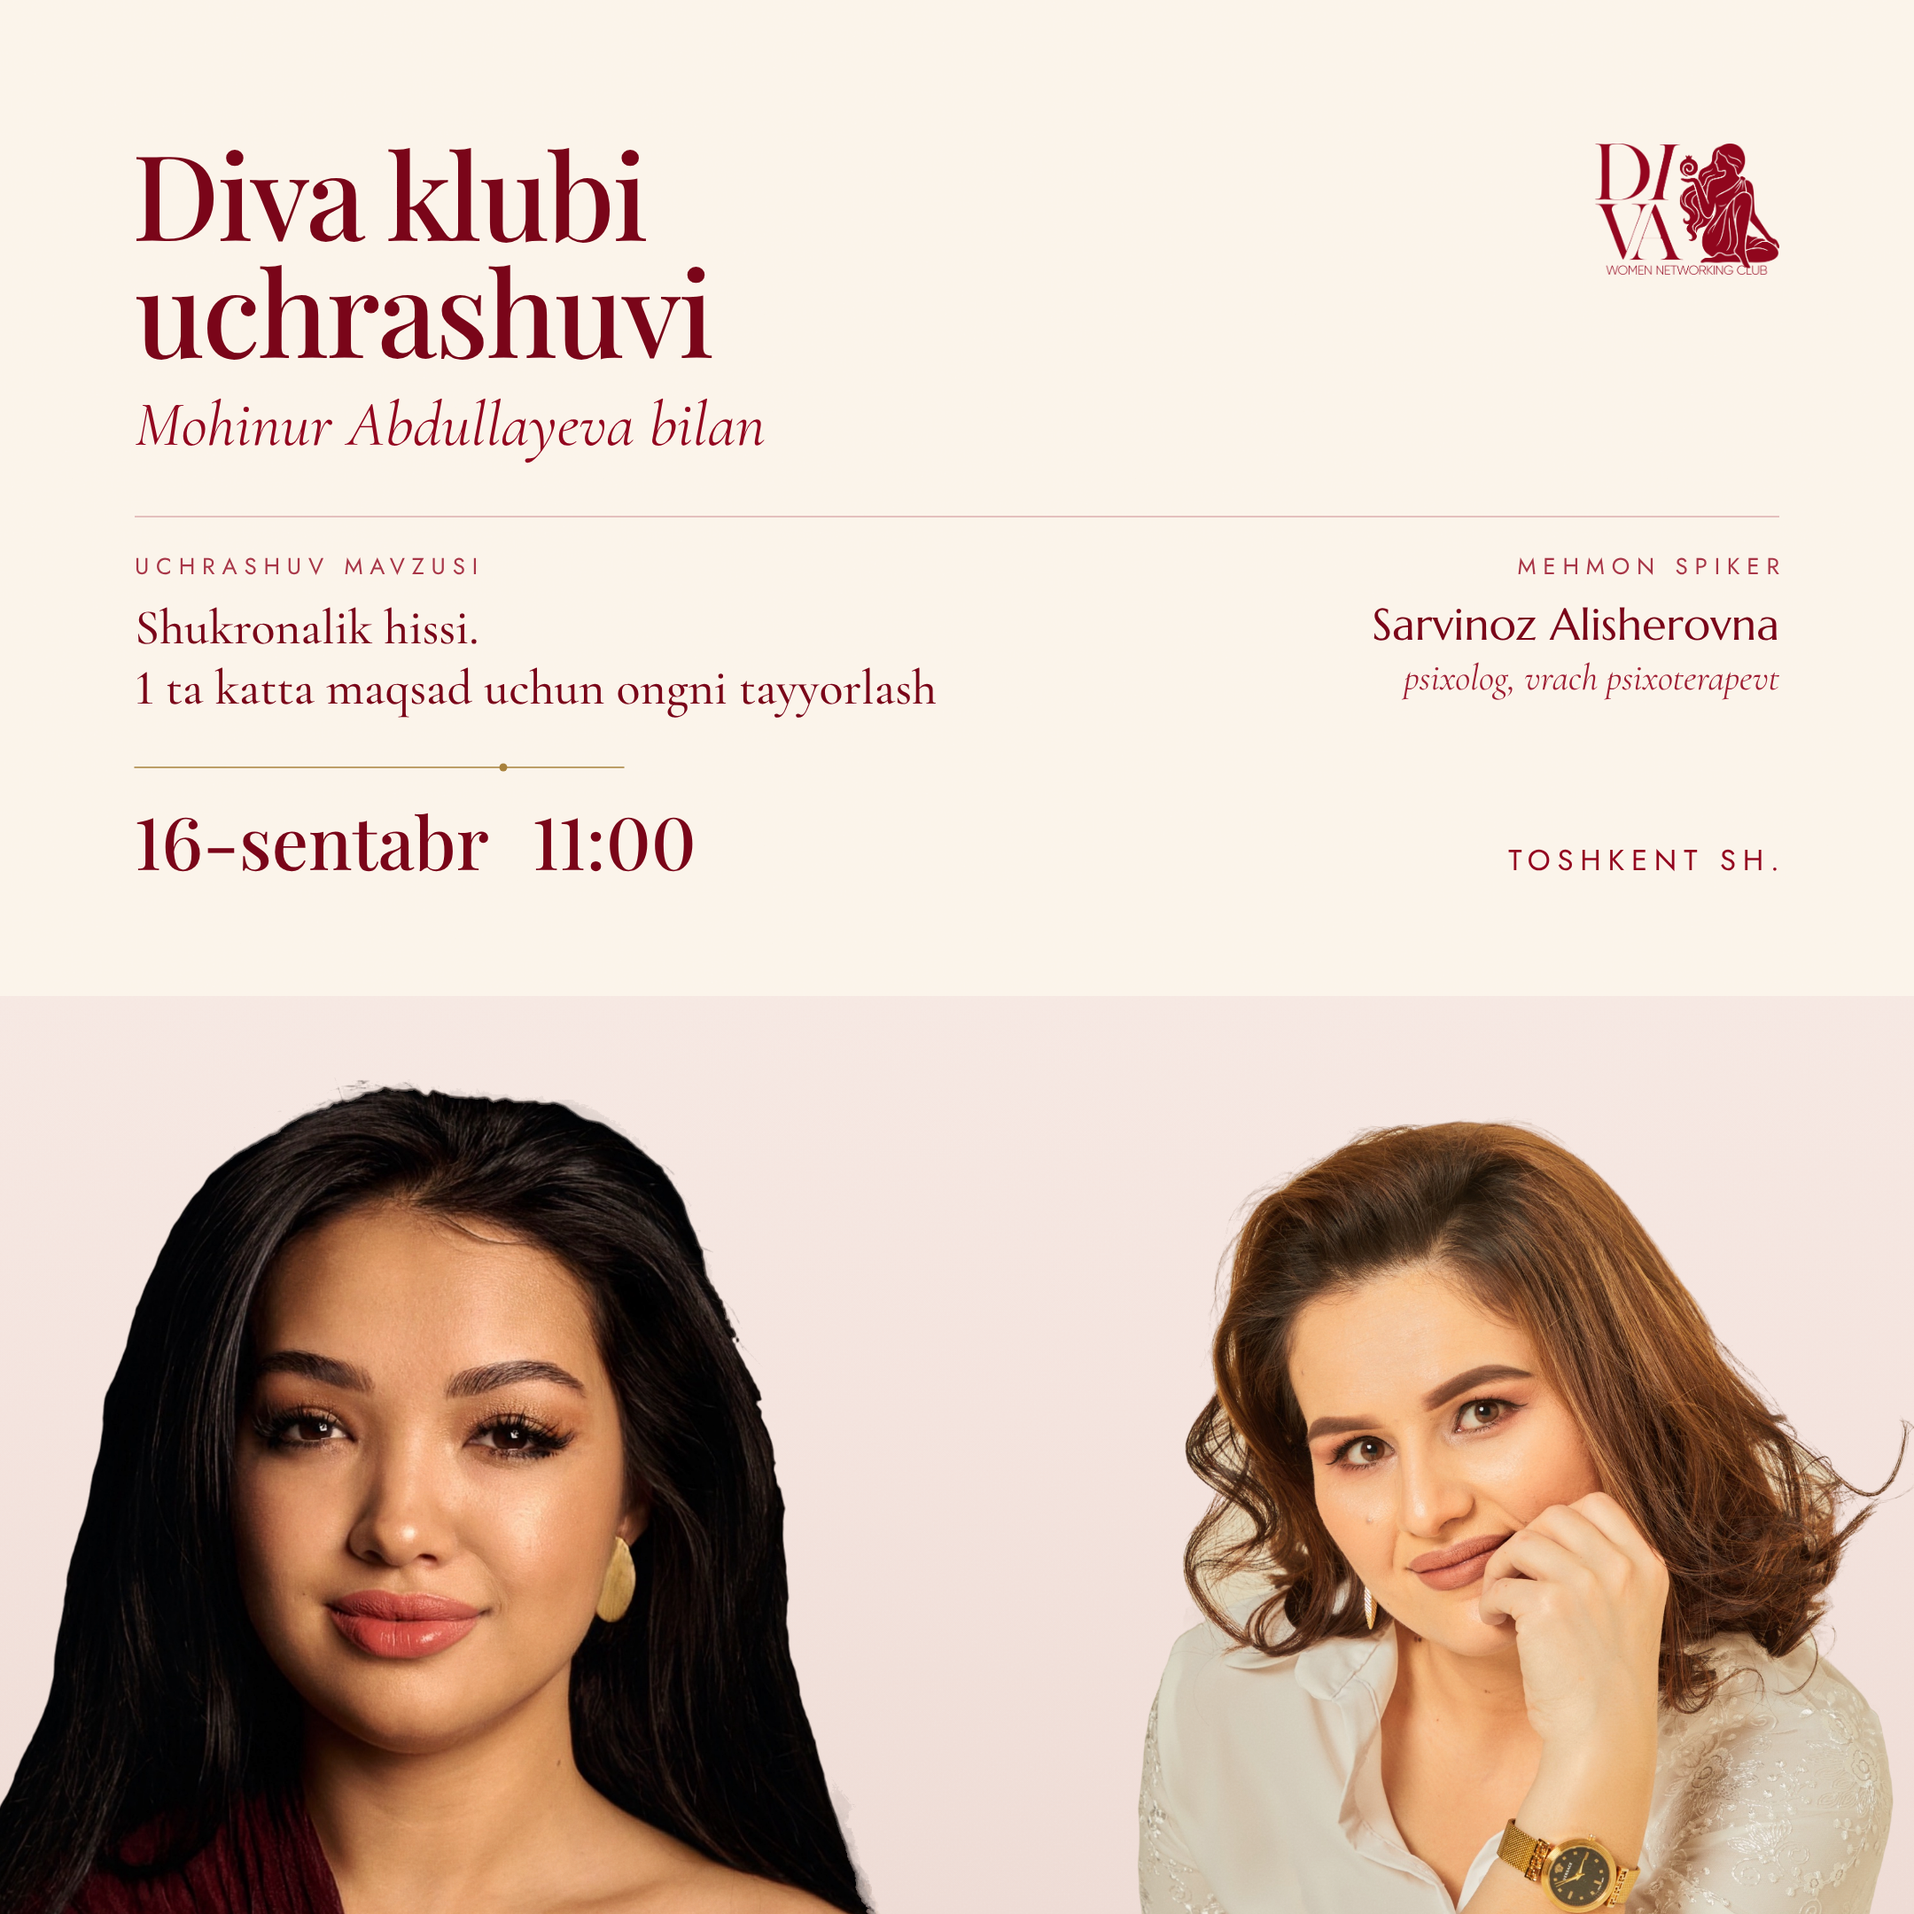
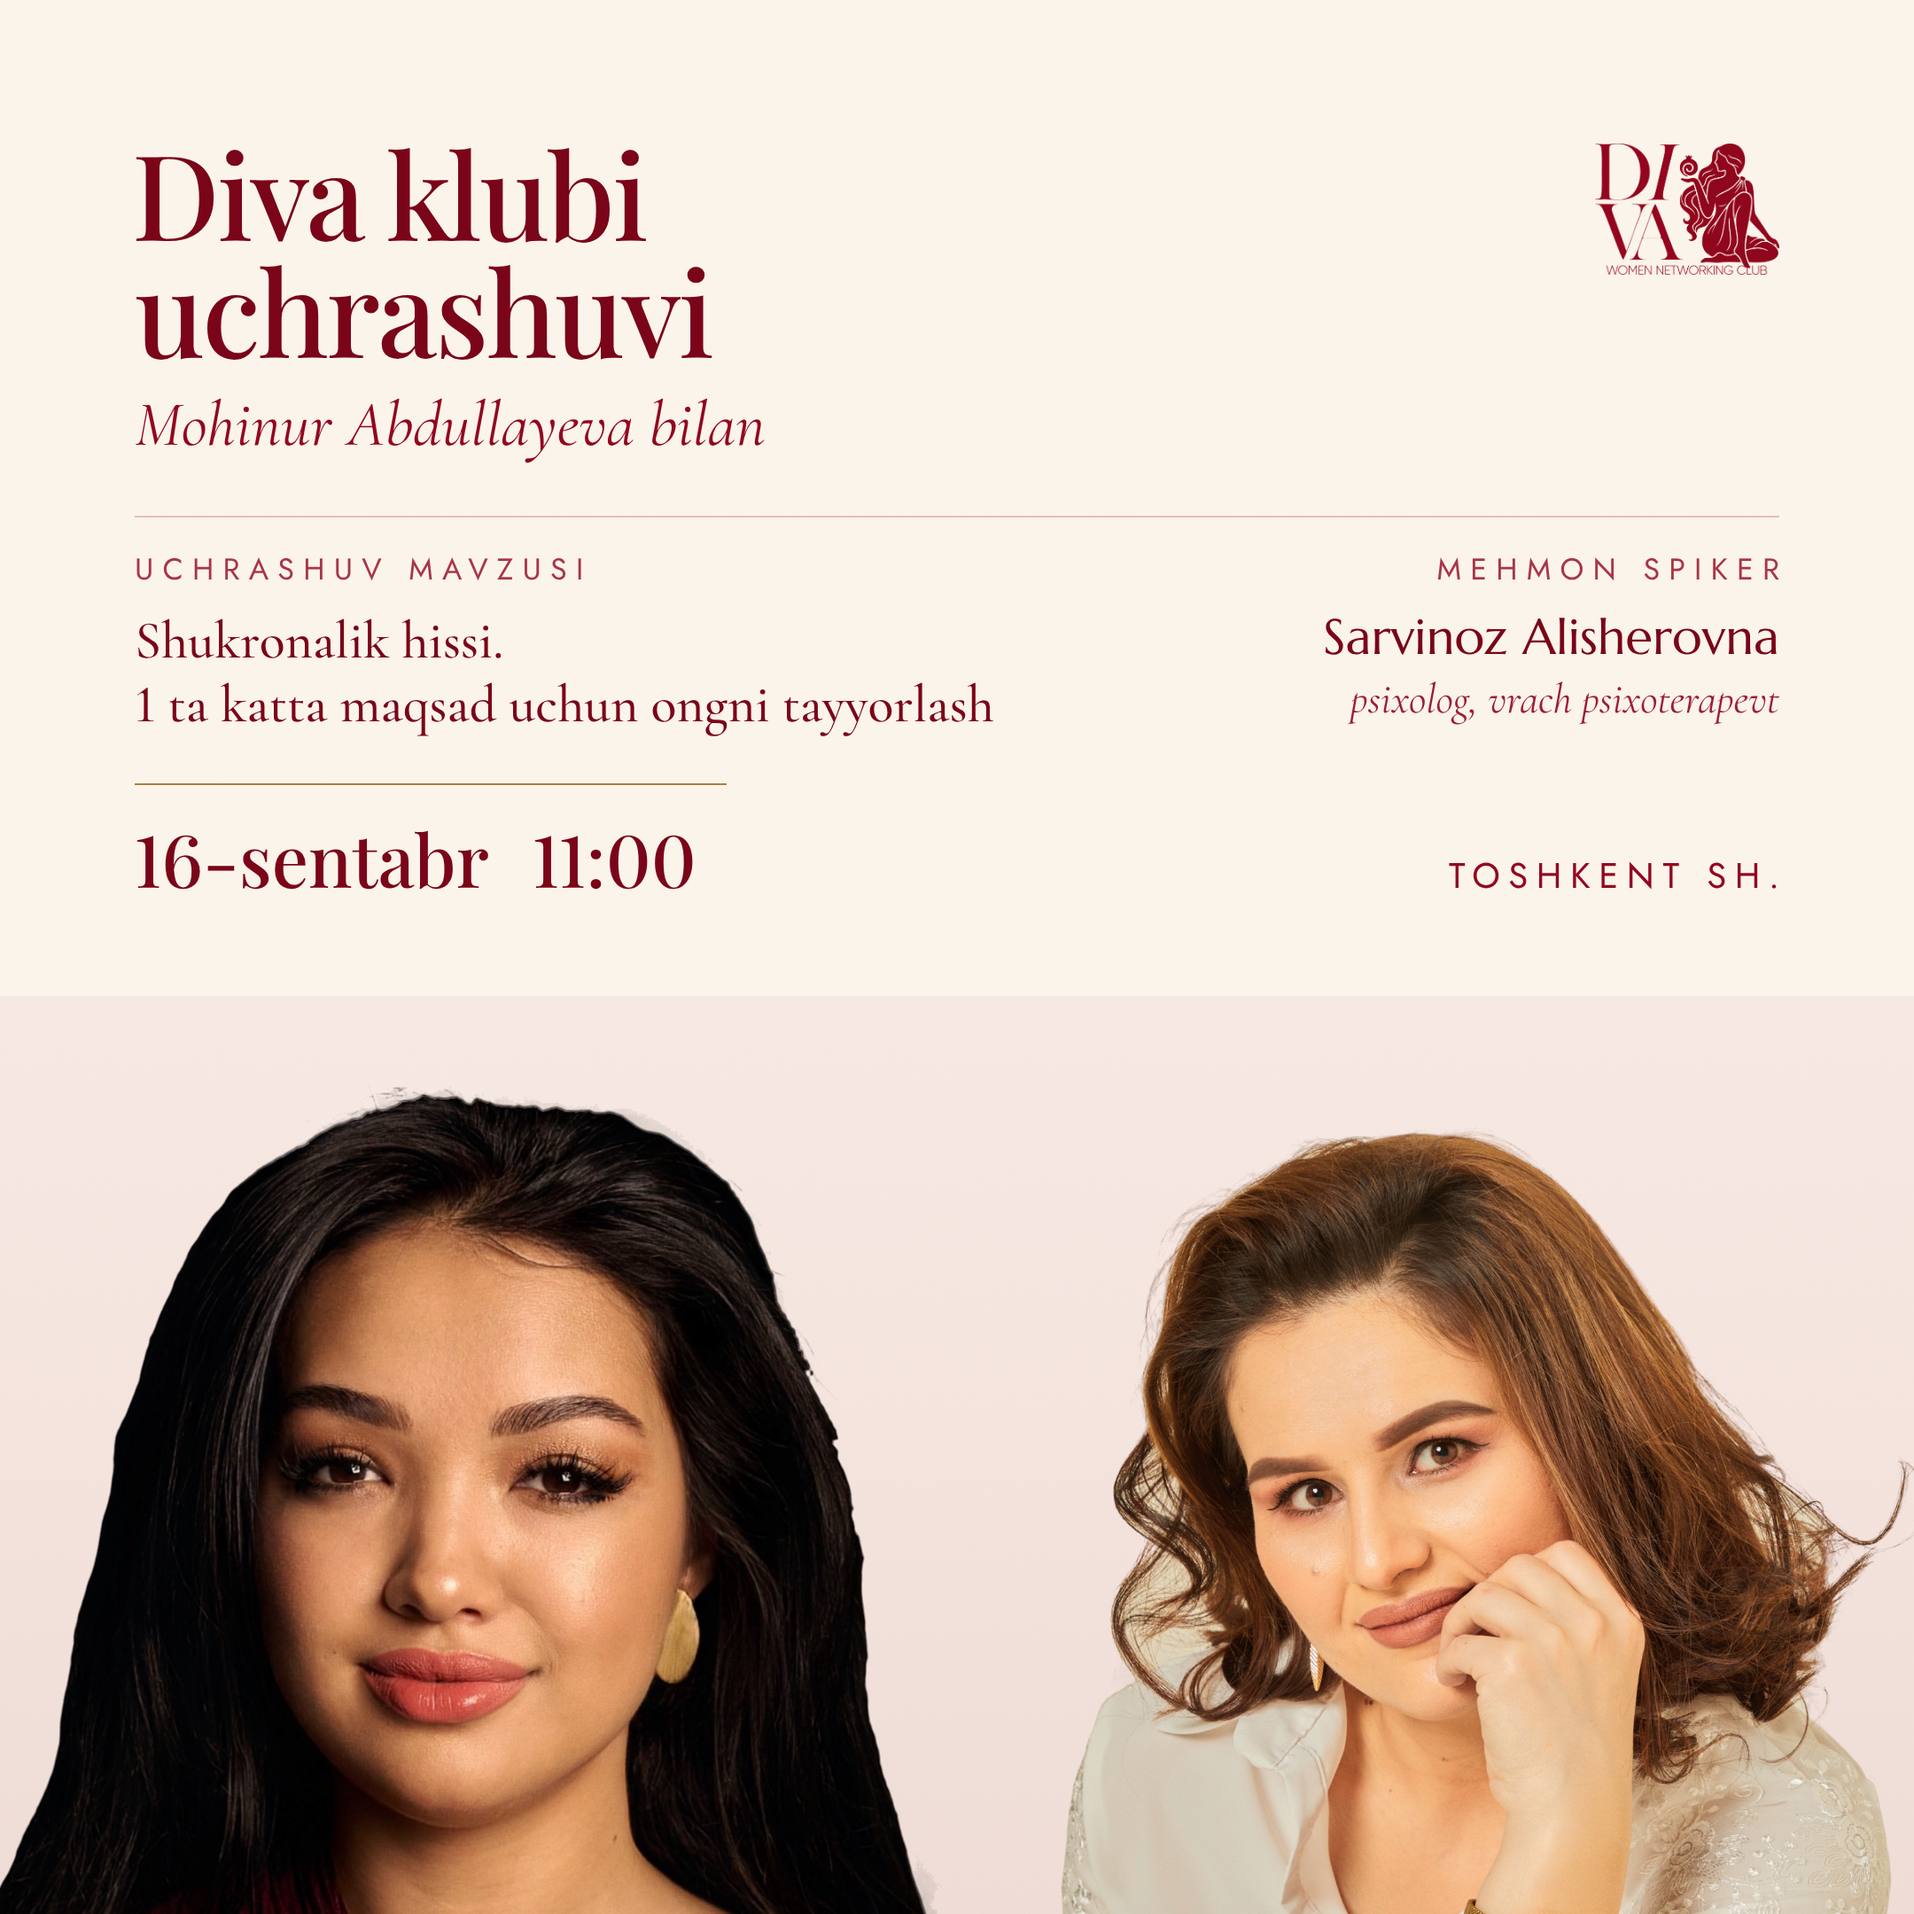
Snapshot in-flight fix work
Claude-Session: https://claude.ai/code/session_01CJcxAKvhDYH9Z96uyo456t

diff --git a/diva-club-posts/variant-b.html b/diva-club-posts/variant-b.html
@@ -23,16 +23,20 @@
   --mt: var(--m);     /* top inset of the type block (9:16 clears the Story UI) */
   --ttl: 90px;        /* display size */
   --host: 47px;
-  --lbl: 15px;
+  --lbl: 19px;
   --topic: 34px;
   --name: 30px;
   --role: 25px;
   --date: 48px;
+  --place: 23px;      /* venue: its own floor, not a fraction of --date */
   --logo: 128px;
 
   --horizon: 698px;   /* y of the blush field edge */
-  --fw1: 680px; --fx1: -84px; --fy1: 706px;   /* Mohinur  */
-  --fw2: 600px; --fx2: 605px; --fy2: 738px;   /* Sarvinoz */
+  /* Both women are scaled about their OWN bleed edge (the source column that
+     lands on the canvas edge is held constant), so each keeps exactly the edge
+     crop she had while the empty blush column between them closes. */
+  --fw1: 748px; --fx1: -92px; --fy1: 706px;   /* Mohinur  */
+  --fw2: 660px; --fx2: 558px; --fy2: 742px;   /* Sarvinoz */
 
   --g-host: 18px;     /* title -> host */
   --g-rule: 48px;     /* host  -> rule */
@@ -40,7 +44,8 @@
   --g-cols: 36px;     /* block -> rule */
   --g-when: calc(var(--g-block) * 0.9);  /* gold rule -> date row */
   --colgap: 56px;
-  --rule-h: 9px;      /* gold rule: integer height keeps the mask raster exact */
+  --rule-h: 9px;      /* box the gold hairline sits in — holds the block rhythm */
+  --rule-w: 36%;      /* gold rule length, as a fraction of the measure */
 }
 
 /* 9:16 is read as a Story: platform chrome eats roughly the top 140px and the
@@ -51,24 +56,37 @@
 html[data-r="9x16"] .canvas {
   --m: 96px; --mt: 150px;
   --ttl: 126px; --host: 60px; --lbl: 17px; --topic: 44px;
-  --name: 42px; --role: 30px; --date: 64px; --logo: 156px;
+  --name: 42px; --role: 30px; --date: 64px; --place: 26px; --logo: 156px;
   --horizon: 1035px;
-  --fw1: 870px; --fx1: -285px; --fy1: 1025px;
-  --fw2: 800px; --fx2: 583px;  --fy2: 1054px;
+  /* The 9:16 used to be cut at 68.6% down Mohinur's frame — below the
+     collarbone, straight across the décolletage, leaving the last ~220px of a
+     Story as bare shoulder and empty blush. Scaling her about the left edge
+     (same edge crop, 12% larger) walks the canvas cut back up her body to the
+     shoulder line: source row 1766 -> 1578, i.e. the crop line moves ~107px up
+     her at the new scale. Sarvinoz is scaled the same way and re-seated so the
+     two eye-lines stay on one line. */
+  --fw1: 974px; --fx1: -319px; --fy1: 1025px;
+  --fw2: 896px; --fx2: 523px;  --fy2: 1057px;
   --g-host: 22px; --g-rule: 40px; --g-block: 36px; --g-cols: 36px;
   --g-when: 23px; --rule-h: 12px;
 }
 
 html[data-r="1x1"] .canvas {
   --m: 76px;
-  --ttl: 67px; --host: 36px; --lbl: 13px; --topic: 28px;
-  --name: 25px; --role: 21px; --date: 41px; --logo: 104px;
+  /* Square carries the smallest type in the set, so the sub-head levels are on
+     their own legibility floor rather than on a strict ratio down from --topic:
+     at feed scale (x0.37) a 1080px post is read at ~400px, and below ~10px a
+     line stops reading as words. topic/name/role/label are sized from that
+     floor up, which compresses the hierarchy here on purpose. */
+  --ttl: 67px; --host: 36px; --lbl: 17px; --topic: 30px;
+  --name: 28px; --role: 24px; --date: 41px; --place: 20px; --logo: 104px;
   --horizon: 562px;
   /* Square: at this scale both women only just missed the side edges (20px and
      18px of blush) — a tangent that reads as an accident. Nudged outward so each
-     is genuinely cropped by her own edge, as they are in 4:5 and 9:16. */
-  --fw1: 620px; --fx1: -72px; --fy1: 570px;
-  --fw2: 555px; --fx2: 585px; --fy2: 596px;
+     is genuinely cropped by her own edge, as they are in 4:5 and 9:16, then
+     scaled about that same edge so the crop is unchanged and the pair closes up. */
+  --fw1: 682px; --fx1: -79px; --fy1: 570px;
+  --fw2: 610px; --fx2: 536px; --fy2: 599px;
   --g-host: 13px; --g-rule: 30px; --g-block: 18px; --g-cols: 22px;
   --colgap: 44px;
   --rule-h: 8px;
@@ -183,23 +201,22 @@ html[data-r="9x16"] .cols { flex-direction: column; align-items: stretch; gap: 3
   color: rgba(147, 6, 31, 0.9);
 }
 
-/* The post's single ornament: a hairline rule with one anchor dot, in gold.
-   Geometry is pinned to an integer --rule-h (so the mask rasterises on whole
-   device pixels and the drawn line keeps the same hairline weight in every
-   ratio); the width then follows the SVG's own 600:16 box, and mask-size
-   100% 100% fills it exactly instead of letting `contain` round the raster
-   down and float the artwork inside the element.
-   The artwork's line starts 23.25/600 in from its own left edge, so the
-   element is pulled left by that much: without it the only ornament in the
-   post sits 10-23px inside the margin and breaks the left column. */
-.dot-rule {
+/* The post's single ornament: one gold hairline above the date.
+   It used to be mark-rule-dot.svg, drawn as a mask — a short rule carrying a
+   dot. Two things were wrong with that. The dot was the last vintage-invitation
+   gesture in an otherwise modern block, and it was anchored to nothing in the
+   layout. And the SVG draws its line at 1.5/16 of the element height, so the
+   same "hairline" rendered at 1.125px on 9:16, 0.84px on 4:5 and 0.75px on 1:1
+   — one rule, three weights, none of them matching the 1px .hair above it.
+   Drawn in CSS instead: a true 1px line, vertically centred in a --rule-h box
+   so the block's vertical rhythm is byte-for-byte what it was, starting exactly
+   on the margin (the mask needed a -1.45em nudge to fake that), and --rule-w
+   makes its length the same fraction of the measure in all three ratios. */
+.rule-when {
   margin-top: var(--g-cols);
-  margin-left: calc(var(--rule-h) * -1.453);
-  width: calc(var(--rule-h) * 37.5);
+  width: var(--rule-w);
   height: var(--rule-h);
-  -webkit-mask: url("assets/orn/mark-rule-dot.svg") left center/100% 100% no-repeat;
-  mask: url("assets/orn/mark-rule-dot.svg") left center/100% 100% no-repeat;
-  background: var(--gold-deep);
+  background: linear-gradient(var(--gold-deep), var(--gold-deep)) left center / 100% 1px no-repeat;
 }
 
 /* ---------------------------- date row ---------------------------- */
@@ -225,7 +242,7 @@ html[data-r="9x16"] .cols { flex-direction: column; align-items: stretch; gap: 3
   margin-right: -0.24em;
   font-family: var(--sans);
   font-weight: 400;
-  font-size: calc(var(--date) * 0.4);
+  font-size: var(--place);
   letter-spacing: 0.24em;
   text-transform: uppercase;
   color: var(--maroon);
@@ -263,7 +280,7 @@ html[data-r="9x16"] .cols { flex-direction: column; align-items: stretch; gap: 3
       </div>
     </div>
 
-    <div class="dot-rule"></div>
+    <div class="rule-when"></div>
 
     <div class="when">
       <span class="w-date num">16-sentabr</span>
